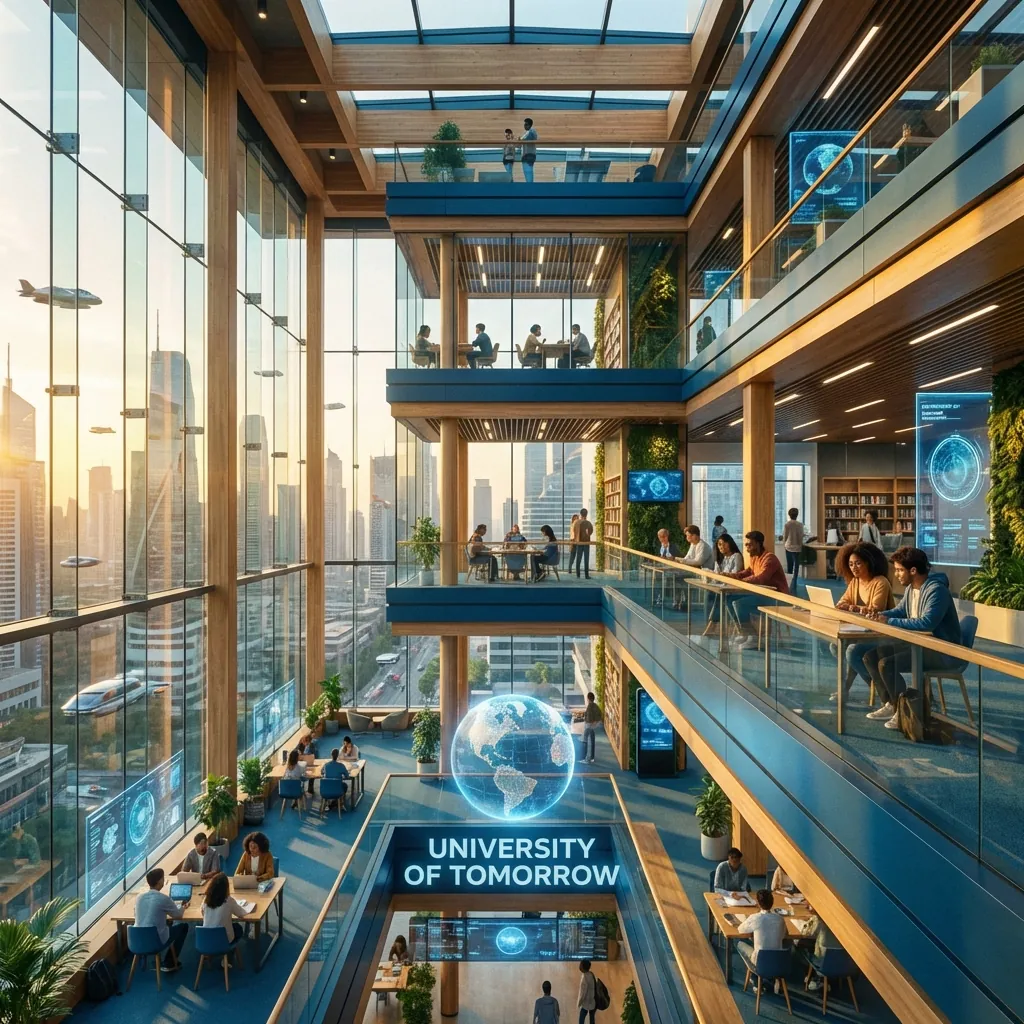
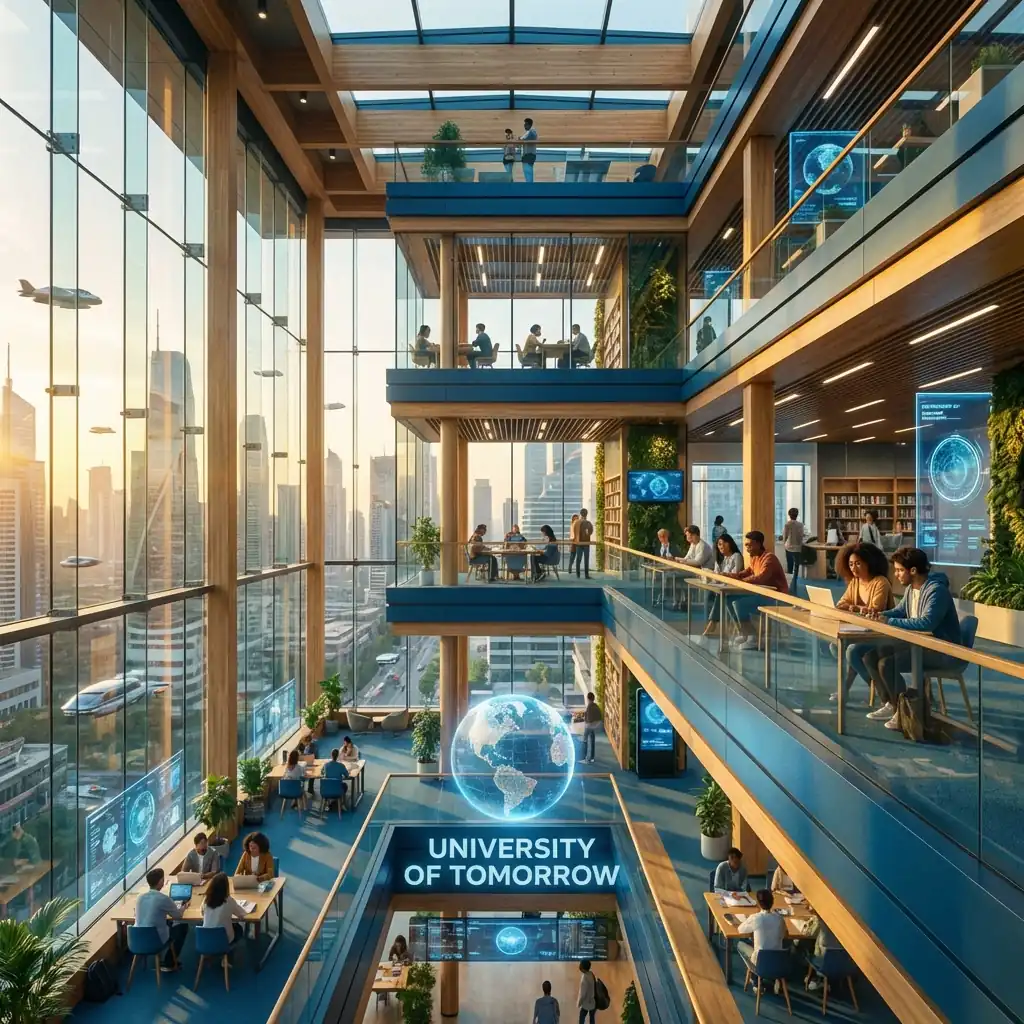
Optimize images further (aggressive compression) and preload background

diff --git a/index.html b/index.html
@@ -27,6 +27,7 @@
         }
     </script>
     <link rel="stylesheet" href="assets/css/styles.css">
+    <link rel="preload" as="image" href="assets/images/background.webp">
 </head>
 
 <body class="bg-brand-dark min-h-screen selection:bg-brand-sky/30 font-serif"

diff --git a/aggressive_compression.py b/aggressive_compression.py
@@ -1,0 +1,61 @@
+from PIL import Image
+import os
+
+def compress_image(source_path, target_path, quality=60, max_dimension=None):
+    try:
+        if not os.path.exists(source_path):
+            print(f"⚠ Source not found: {source_path}")
+            return
+
+        with Image.open(source_path) as img:
+            # Resize if requested
+            if max_dimension:
+                width, height = img.size
+                if width > max_dimension or height > max_dimension:
+                    if width > height:
+                        new_width = max_dimension
+                        new_height = int(height * (max_dimension / width))
+                    else:
+                        new_height = max_dimension
+                        new_width = int(width * (max_dimension / height))
+                    img = img.resize((new_width, new_height), Image.Resampling.LANCZOS)
+                    print(f"  Resized to {new_width}x{new_height}")
+
+            # Save as WebP
+            img.save(target_path, 'WebP', quality=quality, method=6)
+            
+            new_size = os.path.getsize(target_path) / 1024
+            print(f"  ✓ Saved to {os.path.basename(target_path)}: {new_size:.1f} KB (Quality: {quality})")
+
+    except Exception as e:
+        print(f"  ✗ Error: {e}")
+
+# Base assets directory
+assets_dir = r"c:\Users\user\.gemini\antigravity\scratch\edu\assets\images"
+hero_dir = os.path.join(assets_dir, "hero")
+
+# 1. Compress Main Backgrounds (Quality 50 - very aggressive for bg)
+print("Compressing Backgrounds (Quality 50)...")
+compress_image(os.path.join(assets_dir, "background.jpg"), os.path.join(assets_dir, "background.webp"), quality=50)
+compress_image(os.path.join(assets_dir, "hero_bg.png"), os.path.join(assets_dir, "hero_bg.webp"), quality=50)
+
+# 2. Compress Infographics (Quality 65 - needs text readability)
+print("\nCompressing Infographics (Quality 65)...")
+compress_image(os.path.join(assets_dir, "study_pathway_infographic.png"), os.path.join(assets_dir, "study_pathway_infographic.webp"), quality=65)
+compress_image(os.path.join(assets_dir, "study_pathway_new.jpg"), os.path.join(assets_dir, "study_pathway_new.webp"), quality=65)
+
+# 3. Compress Hero Animation Slides (Quality 50 - moving images, less detail needed)
+print("\nCompressing Hero Animation Slides (Quality 50)...")
+hero_files = [
+    "geography_students_1769575797124.png",
+    "science_professionals_1769575809751.png",
+    "business_professionals_1769575843013.png",
+    "arts_students_1769575856678.png",
+    "technology_students_1769575872388.png"
+]
+
+for filename in hero_files:
+    source = os.path.join(hero_dir, filename)
+    target = os.path.join(hero_dir, filename.replace('.png', '.webp'))
+    print(f"Processing {filename}...")
+    compress_image(source, target, quality=50)

diff --git a/analyze_images.py b/analyze_images.py
@@ -1,0 +1,28 @@
+from PIL import Image
+import os
+
+def analyze_directory(directory):
+    print(f"\nAnalyzing directory: {directory}")
+    print("-" * 80)
+    print(f"{'Filename':<40} | {'Size (KB)':<10} | {'Dimensions':<15} | {'MegaPixels':<10}")
+    print("-" * 80)
+    
+    for filename in os.listdir(directory):
+        if filename.lower().endswith('.webp'):
+            filepath = os.path.join(directory, filename)
+            try:
+                size_kb = os.path.getsize(filepath) / 1024
+                with Image.open(filepath) as img:
+                    width, height = img.size
+                    mp = (width * height) / 1000000
+                    
+                print(f"{filename[:38]:<40} | {size_kb:<10.1f} | {f'{width}x{height}':<15} | {mp:<10.1f}")
+            except Exception as e:
+                print(f"Error reading {filename}: {e}")
+
+base_dir = r"c:\Users\user\.gemini\antigravity\scratch\edu\assets\images"
+analyze_directory(base_dir)
+
+hero_dir = os.path.join(base_dir, "hero")
+if os.path.exists(hero_dir):
+    analyze_directory(hero_dir)
